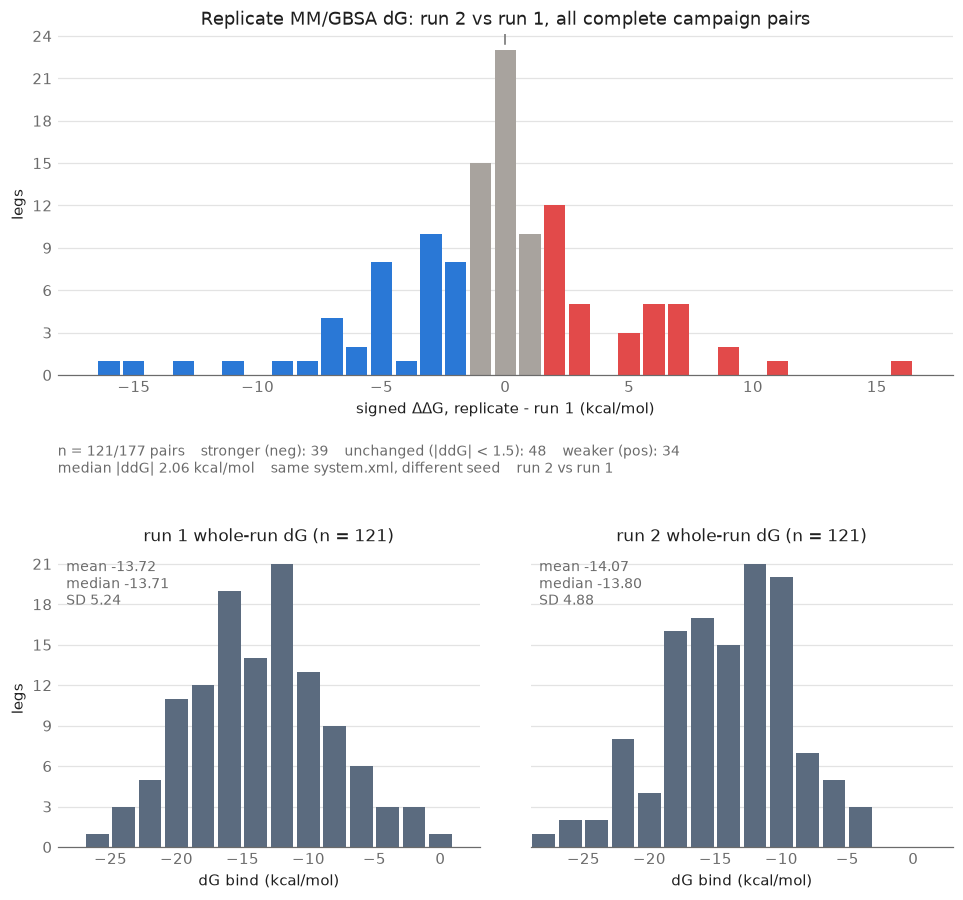
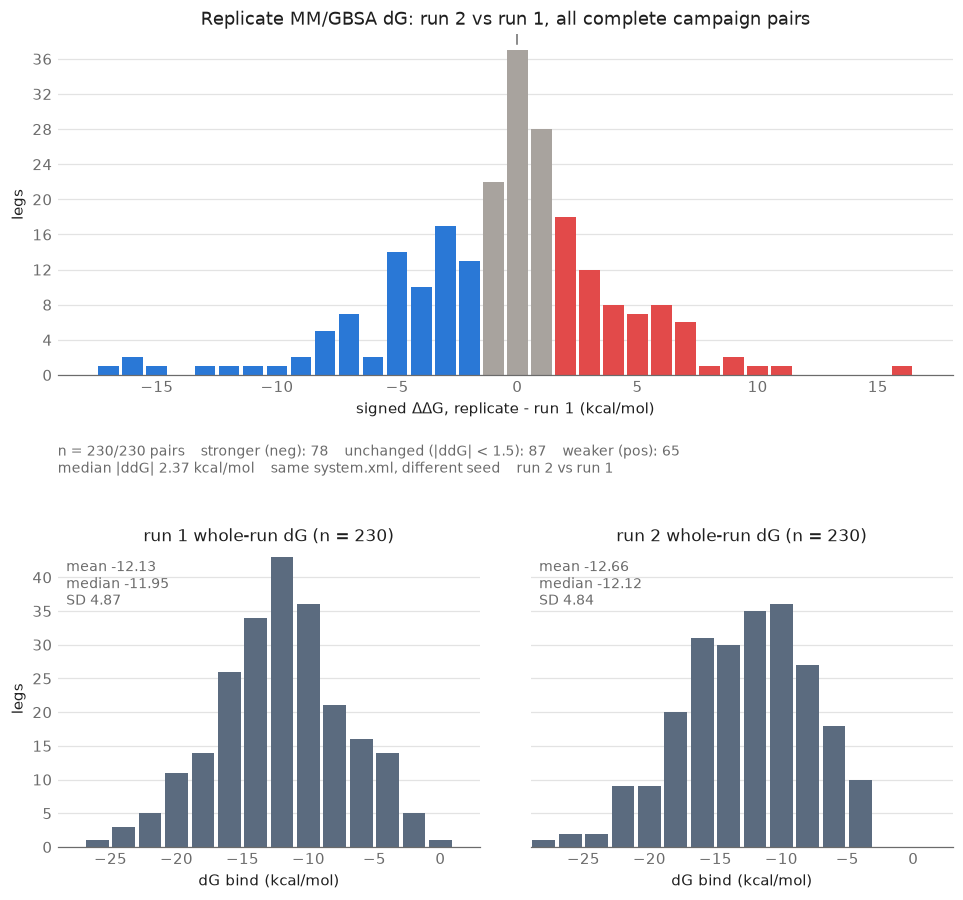
Replicate figures at 230/230 + replicate_tally.py --meanbe
replicate_ddG_histogram.png regenerated (--plot): stronger 78 / unchanged 87 / weaker 65, median
|ddG| 2.37, run 1 mean -12.13 SD 4.87, run 2 mean -12.66 SD 4.84. replicate_ddG_vs_meanBE.png had
no generator (ad hoc, 2026-10-24, 59/101 pairs); now --meanbe in replicate_tally.py: signed ddG
r = -0.01 and |ddG| r = -0.08 against the mean of the two runs over all 230 pairs.

Claude-Session: https://claude.ai/code/session_01J68oTdKqvMs9Ls9aPQoBza

diff --git a/code/replicate_tally.py b/code/replicate_tally.py
@@ -466,11 +466,63 @@ def plot(out="runs/folds_md/replicate_ddG_histogram.png"):
           f"run 2 mean {st.mean(r2):.2f} SD {st.stdev(r2):.2f}, mean ddG {st.mean(d):+.2f}")
 
 
+def plot_meanbe(out="runs/folds_md/replicate_ddG_vs_meanBE.png"):
+    """Signed ddG and |ddG| against the mean of the two runs' dG, one point per complete pair,
+    coloured by molecule, each with a least-squares line and Pearson r. x is the mean rather than
+    run 1 because run 1 sits inside the delta (Oldham): ddG against run 1 alone correlates
+    negatively by construction. Needs matplotlib, so run with .venv/bin/python."""
+    import statistics as st
+    import matplotlib
+    matplotlib.use("Agg")
+    import matplotlib.pyplot as plt
+    pts = [(m, (a + b) / 2, b - a) for m, a, b in ((m, dg(m, s, "mmgbsa_summary.csv"),
+                                                    dg(m, s + "_r2", "mmgbsa_replicates.csv"))
+                                                   for m, s, _ in PAIRS)
+           if a is not None and b is not None]
+    ink, muted, grid = "#1f1f1f", "#6b6b6b", "#e3e3e3"
+    col = {"octinoxate": "#1f8a3a", "oxybenzone": "#2a78d6"}
+    fig, axes = plt.subplots(1, 2, figsize=(14.5, 5.6))
+    x = [p[1] for p in pts]
+    for ax, ys, title, ylab in ((axes[0], [p[2] for p in pts], "Direction: run 2 - run 1",
+                                 "signed ΔΔG (kcal/mol)"),
+                                (axes[1], [abs(p[2]) for p in pts],
+                                 "Magnitude: how far apart the two runs land", "|ddG| (kcal/mol)")):
+        for mol in col:
+            ax.scatter([p[1] for p in pts if p[0] == mol],
+                       [y for p, y in zip(pts, ys) if p[0] == mol],
+                       s=34, color=col[mol], edgecolor="white", linewidth=0.8, label=mol, zorder=3)
+        slope, icpt = st.linear_regression(x, ys)
+        xs = [min(x) - 0.5, max(x) + 0.5]
+        ax.plot(xs, [slope * v + icpt for v in xs], color=muted, lw=1.6, zorder=2)
+        if ax is axes[0]:
+            ax.axhline(0, color=muted, lw=1, zorder=1)
+        ax.text(0.04, 0.95, f"r = {st.correlation(x, ys):+.2f}", transform=ax.transAxes,
+                va="top", color=ink, fontsize=12, fontweight="bold")
+        ax.set_title(title, color=ink)
+        ax.set_xlabel("mean of run 1 and run 2 dG (kcal/mol)", color=ink)
+        ax.set_ylabel(ylab, color=ink)
+        ax.grid(color=grid, lw=0.8)
+        ax.set_axisbelow(True)
+        for s in ("top", "right"):
+            ax.spines[s].set_visible(False)
+        ax.spines["bottom"].set_color(muted)
+        ax.spines["left"].set_color(muted)
+        ax.tick_params(colors=muted, length=0)
+    axes[0].legend(loc="lower left", bbox_to_anchor=(-0.12, 1.08), frameon=False, labelcolor=ink)
+    fig.text(0.08, -0.02, f"n = {len(pts)}/{len(PAIRS)} complete pairs    x = mean of the two runs "
+             f"(Oldham correction: run 1 alone is inside the delta)", color=muted, fontsize=9)
+    fig.savefig(out, dpi=110, bbox_inches="tight")
+    print(f"wrote {out}: {len(pts)} pairs; r(signed) {st.correlation(x, [p[2] for p in pts]):+.2f}, "
+          f"r(|ddG|) {st.correlation(x, [abs(p[2]) for p in pts]):+.2f}")
+
+
 if __name__ == "__main__":
     import sys
     if "--unreplicated" in sys.argv:
         unreplicated()
     elif "--plot" in sys.argv:
         plot()
+    elif "--meanbe" in sys.argv:
+        plot_meanbe()
     else:
         main()
